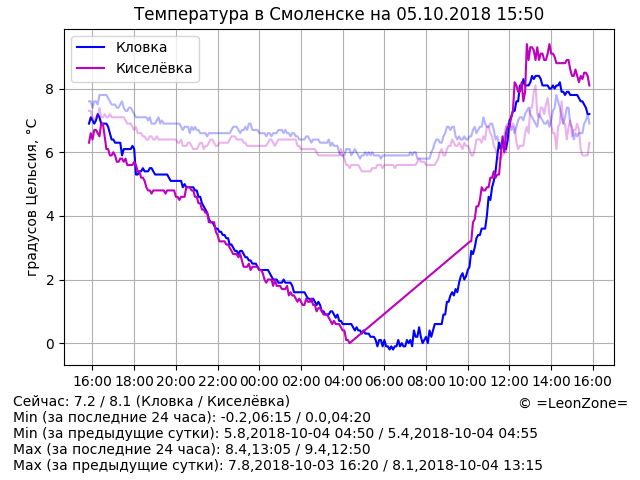
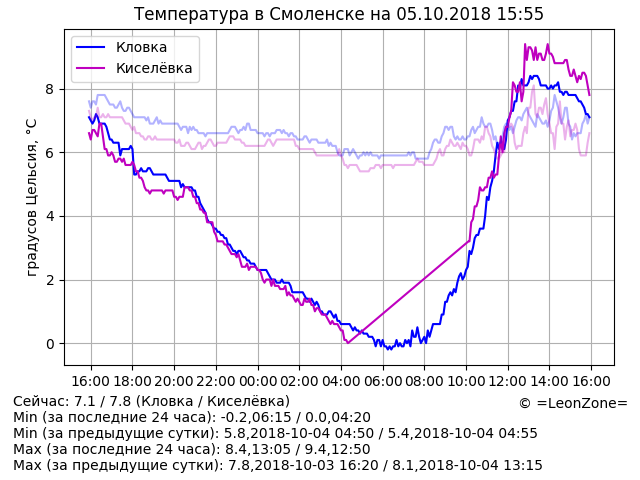
Update data

Changed region(s): [[0.125, 0.0625, 0.9375, 0.75], [0.0938, 0.7812, 0.9688, 0.8438]]

diff --git a/index.html b/index.html
@@ -14,7 +14,7 @@
 	<p align="center"><script>document.write("<img src=\"graph.png?rnd="+Math.random()+"\" alt=\"Температура в Смоленске\" align=\"middle\" width=\"640\" height=\"480\" />")</script>
 	<p hidden="true">
 <!-- textinfo -->
-Сейчас: 7.2 / 8.1 (Кловка / Киселёвка)
+Сейчас: 7.1 / 7.8 (Кловка / Киселёвка)
 Min (за последние 24 часа): -0.2,06:15 / 0.0,04:20
 Min (за предыдущие сутки): 5.8,2018-10-04 04:50 / 5.4,2018-10-04 04:55
 Max (за последние 24 часа): 8.4,13:05 / 9.4,12:50
